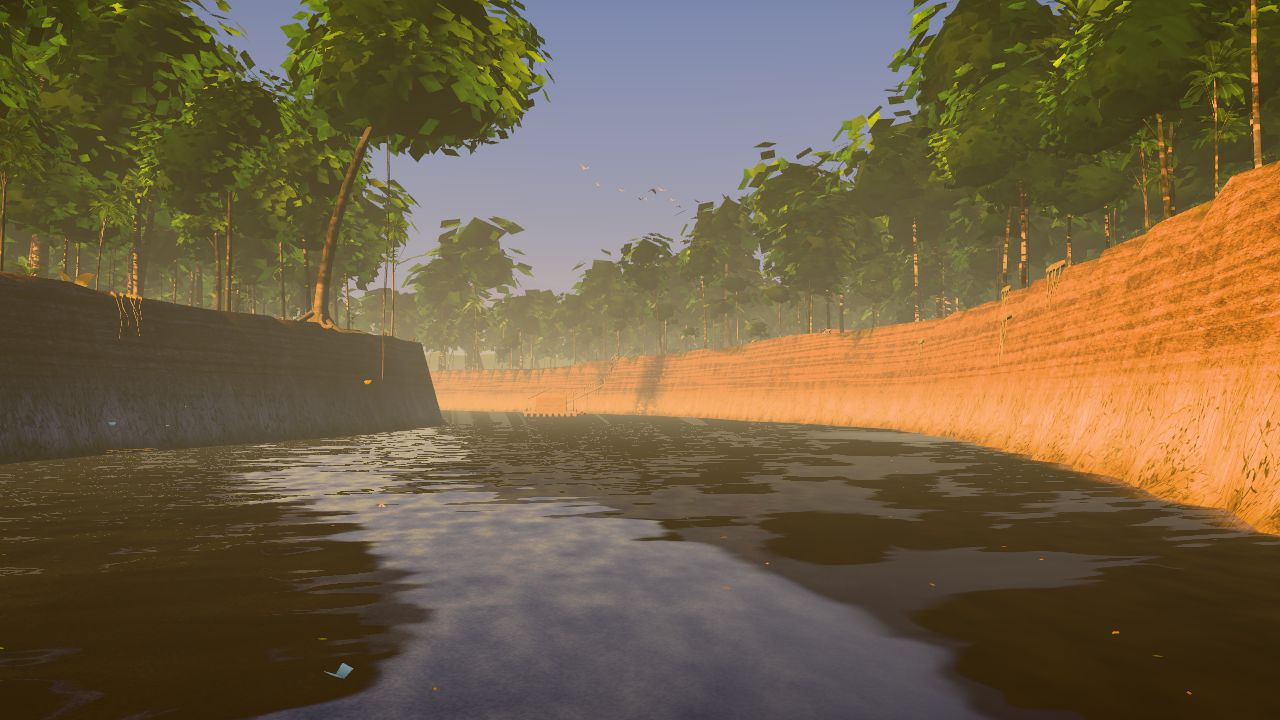
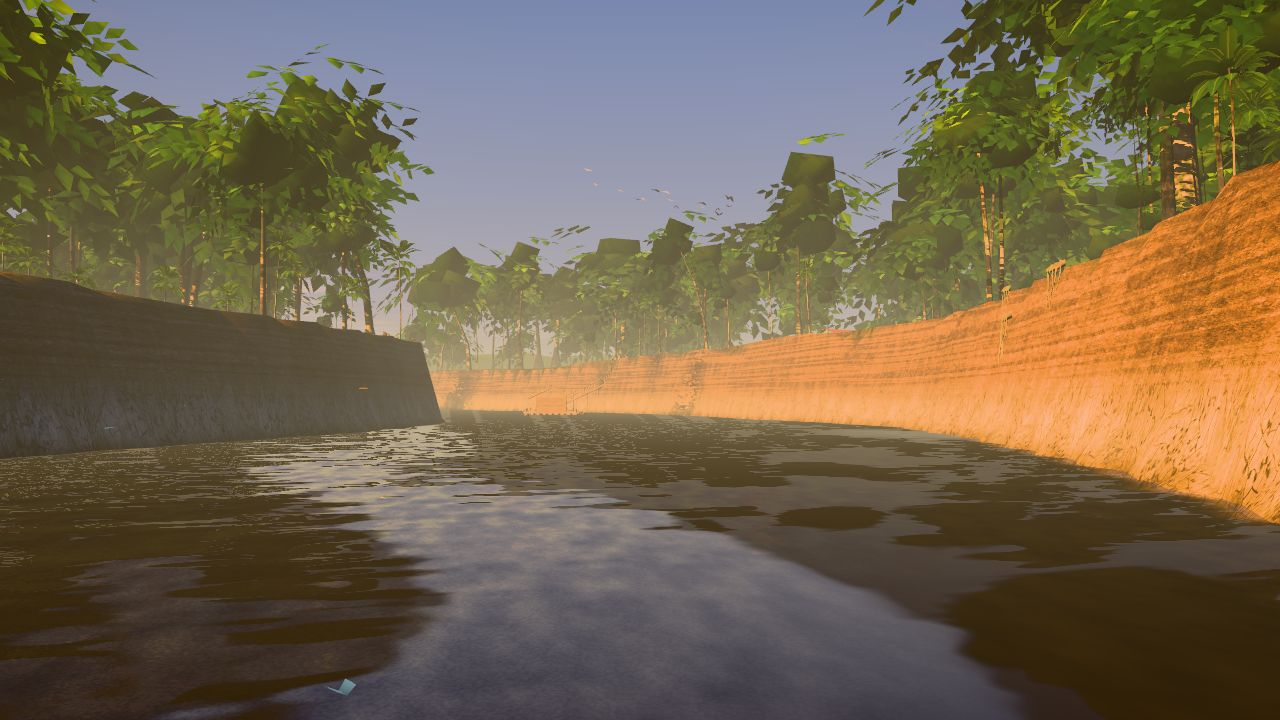
Critic round 1 fixes: flood water reflects the forest and carries plant mats, lamp light on water, visible sunrise sun, slumped banks, wall-like giant buttresses, camera fixes
Claude-Session: https://claude.ai/code/session_01GrVJbQmiYrY8pANU95x3Vf

diff --git a/src/world/env.ts b/src/world/env.ts
@@ -18,12 +18,12 @@ export const KEYS: Key[] = [
   { t: 0.10, az: 262, el: 12, sunI: 3.0, sun: '#ffb866', top: '#4a76b6', hor: '#f4d9ae', glow: '#ffcf88', amb: '#6f7ba8', ambI: 0.6, gnd: '#4a3524', fog: '#dcc8a4', fogSun: '#ffd08a', den: 0.0058, fogH: 0.05, day: 1, exp: 1.0, deep: '#33281a', shallow: '#a37a48', stars: 0, cloud: '#ffd9a8', cloudSh: '#a08fb0', lamp: 0, mist: 0 },
   { t: 0.16, az: 265, el: 3, sunI: 1.5, sun: '#ff9550', top: '#48599a', hor: '#f6ac78', glow: '#ff965a', amb: '#8d86b4', ambI: 0.8, gnd: '#5d4638', fog: '#c9a28e', fogSun: '#ff9a62', den: 0.0066, fogH: 0.045, day: 0.8, exp: 1.02, deep: '#2c2320', shallow: '#9a6a52', stars: 0, cloud: '#ffb088', cloudSh: '#7d6c98', lamp: 0.5, mist: 0 },
   { t: 0.22, az: 267, el: 4, sunI: 0.22, sun: '#c486a0', top: '#222b5a', hor: '#7c6088', glow: '#c2685c', amb: '#5a639a', ambI: 0.75, gnd: '#2c2738', fog: '#4c4a70', fogSun: '#8a5a6a', den: 0.0083, fogH: 0.04, day: 0.3, exp: 1.08, deep: '#161828', shallow: '#4a4460', stars: 0.25, cloud: '#8a6a88', cloudSh: '#3a3a62', lamp: 1, mist: 0 },
-  { t: 0.30, moon: true, az: 130, el: 52, sunI: 0.85, sun: '#9db6e6', top: '#0a1230', hor: '#22335e', glow: '#2e4274', amb: '#34477a', ambI: 0.95, gnd: '#131827', fog: '#162240', fogSun: '#263a66', den: 0.0094, fogH: 0.04, day: 0.6, exp: 1.15, deep: '#0a1020', shallow: '#22304e', stars: 1, cloud: '#26345a', cloudSh: '#0e1428', lamp: 1, mist: 0 },
-  { t: 0.60, moon: true, az: 200, el: 44, sunI: 0.85, sun: '#9db6e6', top: '#0a1230', hor: '#22335e', glow: '#2e4274', amb: '#34477a', ambI: 0.95, gnd: '#131827', fog: '#162240', fogSun: '#263a66', den: 0.0094, fogH: 0.04, day: 0.6, exp: 1.15, deep: '#0a1020', shallow: '#22304e', stars: 1, cloud: '#26345a', cloudSh: '#0e1428', lamp: 1, mist: 0.2 },
+  { t: 0.30, moon: true, az: 130, el: 52, sunI: 0.85, sun: '#9db6e6', top: '#0a1230', hor: '#22335e', glow: '#2e4274', amb: '#3c5088', ambI: 1.05, gnd: '#1a2136', fog: '#162240', fogSun: '#263a66', den: 0.0094, fogH: 0.04, day: 0.6, exp: 1.15, deep: '#0a1020', shallow: '#22304e', stars: 1, cloud: '#26345a', cloudSh: '#0e1428', lamp: 1, mist: 0 },
+  { t: 0.60, moon: true, az: 200, el: 44, sunI: 0.85, sun: '#9db6e6', top: '#0a1230', hor: '#22335e', glow: '#2e4274', amb: '#3c5088', ambI: 1.05, gnd: '#1a2136', fog: '#162240', fogSun: '#263a66', den: 0.0094, fogH: 0.04, day: 0.6, exp: 1.15, deep: '#0a1020', shallow: '#22304e', stars: 1, cloud: '#26345a', cloudSh: '#0e1428', lamp: 1, mist: 0.2 },
   { t: 0.68, moon: true, az: 230, el: 30, sunI: 0.14, sun: '#9aa8c0', top: '#28323f', hor: '#5e6975', glow: '#5e6975', amb: '#5d6a78', ambI: 0.85, gnd: '#23282b', fog: '#59646e', fogSun: '#636d76', den: 0.0099, fogH: 0.07, day: 0.1, exp: 1.08, deep: '#1b2124', shallow: '#4a5658', stars: 0.15, cloud: '#6a7480', cloudSh: '#3c4450', lamp: 1, mist: 1 },
   { t: 0.74, az: 96, el: 4, sunI: 0.2, sun: '#e9ae9c', top: '#47587a', hor: '#cba8a0', glow: '#f2a080', amb: '#7a85a0', ambI: 0.85, gnd: '#3a3432', fog: '#93919c', fogSun: '#eaa890', den: 0.0066, fogH: 0.08, day: 0.3, exp: 1.04, deep: '#23262c', shallow: '#6e6a70', stars: 0, cloud: '#f0b8a0', cloudSh: '#6a6a88', lamp: 0.7, mist: 1 },
-  { t: 0.80, az: 97, el: 4, sunI: 2.6, sun: '#ffa055', top: '#5c84be', hor: '#ffd0a0', glow: '#ffb05e', amb: '#6c7498', ambI: 0.62, gnd: '#5e4a38', fog: '#d9b9a2', fogSun: '#ffc27a', den: 0.0050, fogH: 0.08, day: 1, exp: 1.0, deep: '#2e2a22', shallow: '#a8805a', stars: 0, cloud: '#ffd2a0', cloudSh: '#8a80a8', lamp: 0.2, mist: 0.9 },
-  { t: 0.88, az: 95, el: 14, sunI: 2.9, sun: '#ffc888', top: '#4888ce', hor: '#eae2ca', glow: '#ffe2b0', amb: '#7286a8', ambI: 0.62, gnd: '#463a26', fog: '#d8dcc8', fogSun: '#ffe6b0', den: 0.0047, fogH: 0.06, day: 1, exp: 1.0, deep: '#2f2a18', shallow: '#927a48', stars: 0, cloud: '#fff0d4', cloudSh: '#a0aac4', lamp: 0, mist: 0.4 },
+  { t: 0.80, az: 97, el: 12, sunI: 2.6, sun: '#ffa055', top: '#5c84be', hor: '#ffd0a0', glow: '#ffb05e', amb: '#6c7498', ambI: 0.62, gnd: '#5e4a38', fog: '#d9b9a2', fogSun: '#ffc27a', den: 0.0050, fogH: 0.08, day: 1, exp: 1.0, deep: '#2e2a22', shallow: '#a8805a', stars: 0, cloud: '#ffd2a0', cloudSh: '#8a80a8', lamp: 0.2, mist: 0.9 },
+  { t: 0.88, az: 95, el: 21, sunI: 2.9, sun: '#ffc888', top: '#4888ce', hor: '#eae2ca', glow: '#ffe2b0', amb: '#7286a8', ambI: 0.62, gnd: '#463a26', fog: '#d8dcc8', fogSun: '#ffe6b0', den: 0.0047, fogH: 0.06, day: 1, exp: 1.0, deep: '#2f2a18', shallow: '#927a48', stars: 0, cloud: '#fff0d4', cloudSh: '#a0aac4', lamp: 0, mist: 0.4 },
   { t: 1.00, az: 88, el: 34, sunI: 3.0, sun: '#ffe2b0', top: '#3880d0', hor: '#cfe6ee', glow: '#fff0d0', amb: '#7090b2', ambI: 0.62, gnd: '#4a4026', fog: '#c2d9dc', fogSun: '#fff0cc', den: 0.0043, fogH: 0.05, day: 1, exp: 1.0, deep: '#3a2412', shallow: '#8a5a30', stars: 0, cloud: '#ffffff', cloudSh: '#a8b8d0', lamp: 0, mist: 0 },
 ]
 

diff --git a/src/world/forest.ts b/src/world/forest.ts
@@ -29,7 +29,7 @@ export const floodStain = (col: N, wobble: N) => {
   // below the line the bark is washed pale with silt; at the line a dark band about a hand's width
   const below = smoothstep(0.05, -0.25, fl)
   const band = smoothstep(0.22, 0.06, fl).mul(smoothstep(-0.6, -0.25, fl))
-  const pale = mix(col, col.mul(0.45).add(vec3(0.3, 0.26, 0.2)), below.mul(0.75))
+  const pale = mix(col, col.mul(0.55).add(vec3(0.15, 0.125, 0.095)), below.mul(0.7))
   const wet = smoothstep(0.7, 0.0, positionWorld.y.sub(U.water))
   return mix(pale, vec3(0.05, 0.035, 0.025), band.mul(0.9)).mul(mix(float(1), float(0.5), wet))
 }
@@ -97,7 +97,7 @@ function clumpMaterial(far: number) {
     col = col.add(vec3(0.07, 0.1, 0.01).mul(smoothstep(0.56, 0.74, dab2)).mul(top))
     // each leaf its own tone (some yellowing, some deep), lighter towards its tip; the inner mass stays dark
     const leaf = smoothstep(0.5, 1.0, aux.z), rnd = aux.x
-    col = mix(col.mul(0.32), col.mul(mix(float(0.7), float(1.45), rnd)), leaf)
+    col = mix(col.mul(0.6), col.mul(mix(float(0.7), float(1.45), rnd)), leaf)
     col = mix(col, col.mul(vec3(1.5, 1.35, 0.6)), leaf.mul(smoothstep(0.82, 0.97, rnd)).mul(0.7))
     col = col.mul(mix(float(1), float(1.35), smoothstep(1.0, 1.6, aux.z)))
     // crowns standing in the flood: stained like the trunks
@@ -189,7 +189,9 @@ function scanPlantMaterial(tex: THREE.Texture, far: number, base: number, floati
     if (floating) {
       const wy = mix(U.water, U.lake, ib.z)
       const depth = wy.sub(ia.y)
-      const show = smoothstep(-0.02, 0.1, depth).mul(smoothstep(1.5, 0.9, depth))
+      // at the edge always; out on the flood in drifting mats (about a third of them)
+      const mat = smoothstep(0.62, 0.7, ib.y).mul(smoothstep(5.0, 7.5, U.water))
+      const show = smoothstep(-0.02, 0.1, depth).mul(max(smoothstep(1.5, 0.9, depth), mat))
       return p.mul(show).mul(shrink(far)).add(vec3(ia.x, wy.add(0.015), ia.z))
     }
     return p.mul(shrink(far)).add(ia.xyz)

diff --git a/src/dev/cameras.ts b/src/dev/cameras.ts
@@ -7,14 +7,14 @@ export const CAMS: Cam[] = [
   { name: '01 beach to mouth', x: -128, z: 226, up: 1.7, lx: -40, lz: 190, lup: 5 },
   { name: '02 river mouth', x: -42, z: 262, up: 1.4, lx: -50, lz: 170, lup: 4 },
   { name: '03 channel under banks', x: -47, z: 168, up: 1.4, lx: -30, lz: 110, lup: 5 },
-  { name: '04 landing and floating house', x: -40, z: 94, up: 1.5, lx: -28, lz: 62, lup: 4 },
+  { name: '04 landing and floating house', x: -21, z: 59, up: 3.2, lx: -31, lz: 70, lup: 1.4 },
   { name: '05 bank steps from top', x: -4, z: 47, up: 1.7, lx: -34, lz: 66, lup: -4 },
   { name: '06 yard and house on legs', x: 4, z: 30, up: 1.7, lx: 25, lz: 56, lup: 3.2 },
   { name: '07 marked tree', x: 19, z: 23, up: 1.5, lx: PLACES.markedTree.x, lz: PLACES.markedTree.z, lup: 2.6 },
   { name: '08 trail', x: 55, z: 12, up: 1.7, lx: 80, lz: -14, lup: 2.5 },
   { name: '09 dry bed crossing', x: 82, z: -22, up: 1.7, lx: 118, lz: -36, lup: 1 },
-  { name: '10 giant trunk', x: 108, z: -50, up: 1.7, lx: PLACES.giantTrunk.x, lz: PLACES.giantTrunk.z, lup: 7 },
-  { name: '11 lake high bank east', x: 116, z: -119, up: 1.7, lx: 190, lz: -140, lup: 0.5 },
+  { name: '10 giant trunk', x: 104, z: -52, up: 1.7, lx: PLACES.giantTrunk.x, lz: PLACES.giantTrunk.z, lup: 7 },
+  { name: '11 lake high bank east', x: 117, z: -122, up: 1.7, lx: 200, lz: -132, lup: 2.5 },
   { name: '12 deep forest', x: 72, z: -86, up: 1.7, lx: 96, lz: -112, lup: 4 },
 ]
 // Benchmark flight: a fixed loop through the densest places. Flown once per water level, 20 s each.

diff --git a/src/world/water.ts b/src/world/water.ts
@@ -48,9 +48,15 @@ export function waterMaterial(useSceneDepth: boolean): THREE.Material {
     const hit = pw.xz.add(Rs.xz.div(max(Rs.y, 0.03)).mul(15))
     const landH = texture(TEX.height, hit.add(340).div(680)).r
     const cov = texture(TEX.cover, hit.add(340).div(680)).r
-    const wall = smoothstep(-2.0, 7.0, landH.sub(pw.y)).mul(smoothstep(0.0, 0.3, cov.add(0.2)))
+    const wall = max(smoothstep(-2.0, 7.0, landH.sub(pw.y)).mul(smoothstep(0.0, 0.3, cov.add(0.2))), smoothstep(0.25, 0.7, cov))
     const forestCol = mix(vec3(0.03, 0.035, 0.015), vec3(0.08, 0.08, 0.03), r2).mul(U.amb.add(U.sunCol.mul(U.sunI).mul(0.25)))
     refl = mix(refl, forestCol, wall.mul(0.92))
+    // lamps lay a long warm path on the water
+    const lampGlint = (L: any) => { const d = L.xyz.sub(pw); const dn = d.normalize(); return U.lampCol.mul(pow(max(dot(R, dn), 0), 40)).mul(L.w).mul(0.35).div(d.length().mul(0.06).add(1)) }
+    refl = refl.add(lampGlint(U.lamp0)).add(lampGlint(U.lamp1)).add(lampGlint(U.lamp2))
+    // under the canopy the water lies in shade
+    const here = texture(TEX.cover, worldUV()).r
+    refl = refl.mul(mix(float(1), float(0.5), smoothstep(0.3, 0.8, here)))
     const fres = pow(dot(view.negate(), n).oneMinus().clamp(), 3.2).mul(0.86).add(0.05)
     // a pale line where water meets land, and drifting foam strokes
     const edge = smoothstep(0.16, 0.0, vdepth).mul(0.5)

diff --git a/src/world/structures.ts b/src/world/structures.ts
@@ -231,16 +231,16 @@ export function buildStructures(hf: Heightfield, group: THREE.Object3D, markedTr
   {
     const T = PLACES.giantTrunk, gy = hf.at(T.x, T.z) - 0.6
     const g = new GB()
-    const sides = 56, rings = 22, Hh = 46
+    const sides = 112, rings = 26, Hh = 46
     const fins = 7
     for (let j = 0; j <= rings; j++) {
       const v = Math.pow(j / rings, 2.1), y = v * Hh
       const R0 = 2.5 - 1.0 * v
-      const flare = Math.exp(-y / 2.6)
+      const flare = Math.exp(-y / 4.2)
       for (let i = 0; i < sides; i++) {
         const th = (i / sides) * Math.PI * 2
-        const fin = Math.pow(0.5 + 0.5 * Math.cos(th * fins + Math.sin(th * 2) * 0.8), 5)
-        const rr = R0 * (1 + 0.06 * Math.sin(th * 13 + y * 0.3)) + flare * (0.9 + 5.2 * fin)
+        const fin = Math.pow(0.5 + 0.5 * Math.cos(th * fins + Math.sin(th * 2) * 0.8), 14)
+        const rr = R0 * (1 + 0.06 * Math.sin(th * 13 + y * 0.3)) + flare * (0.5 + 7.5 * fin)
         g.v(Math.cos(th) * rr, y, Math.sin(th) * rr, Math.cos(th), flare * 0.5, Math.sin(th), 0, v, 0)
       }
     }

diff --git a/src/world/ground.ts b/src/world/ground.ts
@@ -39,7 +39,7 @@ export function groundMaterial(): THREE.Material {
     // sand, rippled
     const rip = sin(pw.x.mul(0.7).add(pw.z.mul(2.3)).add(n2.mul(6))).mul(0.5).add(0.5)
     const drift2 = smoothstep(0.45, 0.6, noise(pw.xz.mul(vec2(0.03, 0.11))).a)
-    let sand: any = mix(vec3(0.5, 0.41, 0.27), vec3(0.74, 0.65, 0.46), smoothstep(0.3, 0.7, rip.mul(0.35).add(n1.mul(0.65))))
+    let sand: any = mix(vec3(0.34, 0.27, 0.17), vec3(0.55, 0.47, 0.32), smoothstep(0.3, 0.7, rip.mul(0.35).add(n1.mul(0.65))))
     sand = mix(sand, vec3(0.4, 0.32, 0.21), drift2.mul(0.5))
     sand = mix(sand, vec3(0.3, 0.25, 0.18), smoothstep(0.7, 0.76, n3.mul(0.5).add(n4.mul(0.5))).mul(0.7))
     const earth = mix(vec3(0.11, 0.075, 0.045), vec3(0.2, 0.14, 0.085), smoothstep(0.35, 0.6, n2.mul(0.6).add(n3.mul(0.4))))

diff --git a/src/world/geom.ts b/src/world/geom.ts
@@ -168,7 +168,7 @@ export function leafClumpGeometry(leaves: number, leafSize: number, coreDetail: 
     v.fromBufferAttribute(p, i).normalize()
     const key = `${v.x.toFixed(4)},${v.y.toFixed(4)},${v.z.toFixed(4)}`
     let id = map.get(key)
-    if (id === undefined) { const s = rad(v.x, v.y, v.z) * 0.8; id = g.v(v.x * s, (v.y < 0 ? v.y * 0.7 : v.y) * s, v.z * s, v.x, v.y + 0.2, v.z, 0.5, v.y, 0); map.set(key, id) }
+    if (id === undefined) { const s = rad(v.x, v.y, v.z) * 0.66; id = g.v(v.x * s, (v.y < 0 ? v.y * 0.7 : v.y) * s, v.z * s, v.x, v.y + 0.2, v.z, 0.5, v.y, 0); map.set(key, id) }
     g.idx.push(id)
   }
   // leaves grow in sprays: a twig leaves the mass, and five or six leaves sit along it in pairs, all hanging

diff --git a/src/world/terrain.ts b/src/world/terrain.ts
@@ -72,7 +72,8 @@ export function heightFormula(x: number, z: number): number {
   const bedY = mix(-3.4, -0.7, ss(0.12, 1, s)) + (n2 - 0.5) * 0.7
   const wb = mix(12.5, 6.5, ss(0.2, 1, s)) + 2.5 * (noise2(s * 26, 1, S + 2) - 0.5)
   const run = mix(10.5, 8, s) + 3 * (noise2(x / 18, z / 18, S + 44) - 0.5)
-  const p = ss(wb, wb + run, dc)
+  const slump = (fbm2(x / 9, z / 9, S + 61, 3) - 0.5) * 5.5 + (noise2(x / 3.1, z / 3.1, S + 62) - 0.5) * 1.4
+  const p = ss(wb, wb + run, dc + slump)
   // banks slump in steps: terraces left by the falling river
   // a gentle silt foot, then a steep cut face, then the lip; slumped in steps left by the falling river
   const face = 0.3 * ss(0, 0.62, p) + 0.7 * ss(0.6, 0.9, p)

diff --git a/src/world/forestCook.ts b/src/world/forestCook.ts
@@ -204,7 +204,7 @@ export function cookForest(hf: Heightfield, density: number, progress: (f: numbe
 
   // ---- fallen wood: scattered on the floor, and stranded in lines where the flood left it (bank tops, dry bed edges)
   const rl = rng('logs')
-  for (let i = 0; i < 2600 * density; i++) {
+  for (let i = 0; i < 4200 * density; i++) {
     const x = rl.range(-lim, lim), z = rl.range(-lim, lim), len = rl.range(1.2, 6) * (rl() < 0.12 ? 2 : 1), rad = rl.range(0.07, 0.28), rot = rl() * 6.283, seed = rl(), roll = rl()
     const h = heightFormula(x, z)
     if (kind.lake > 0.2 || kind.trail > 0.3 || h < 0.3) continue

diff --git a/src/world/shade.ts b/src/world/shade.ts
@@ -122,7 +122,7 @@ export function makeFog() {
   const colorNode = Fn(() => {
     const view = positionWorld.sub(cameraPosition).normalize()
     const s = max(dot(view, U.sunDir), 0)
-    return mix(U.fogCol, U.fogSun, s.mul(s).mul(s))
+    return mix(U.fogCol, U.fogSun, s.mul(s).mul(s).mul(s).mul(s).mul(0.8))
   })()
   const factor = Fn(() => {
     const dist = positionView.z.negate()
